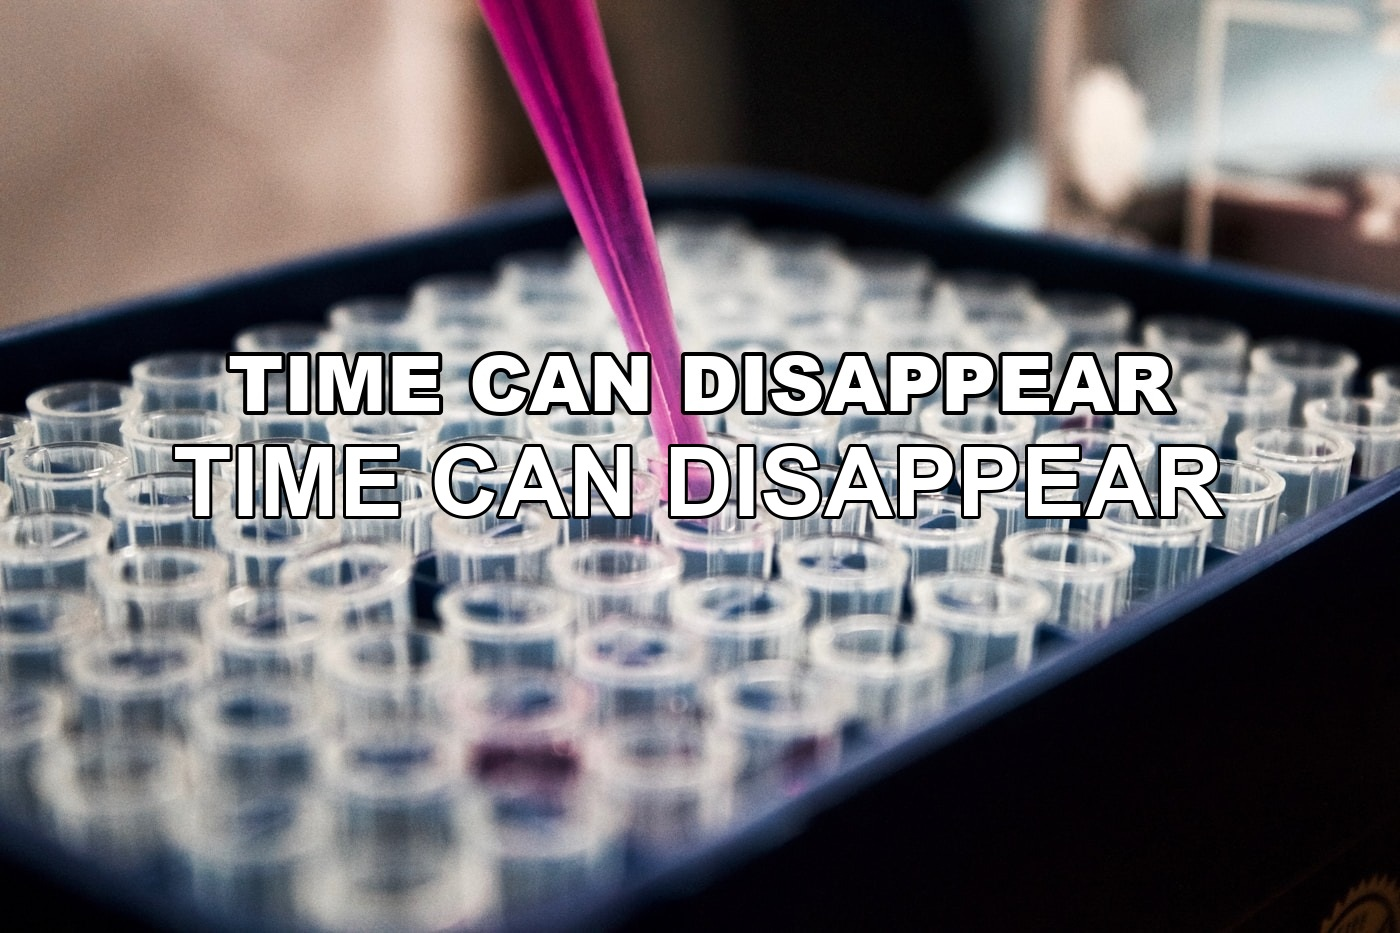
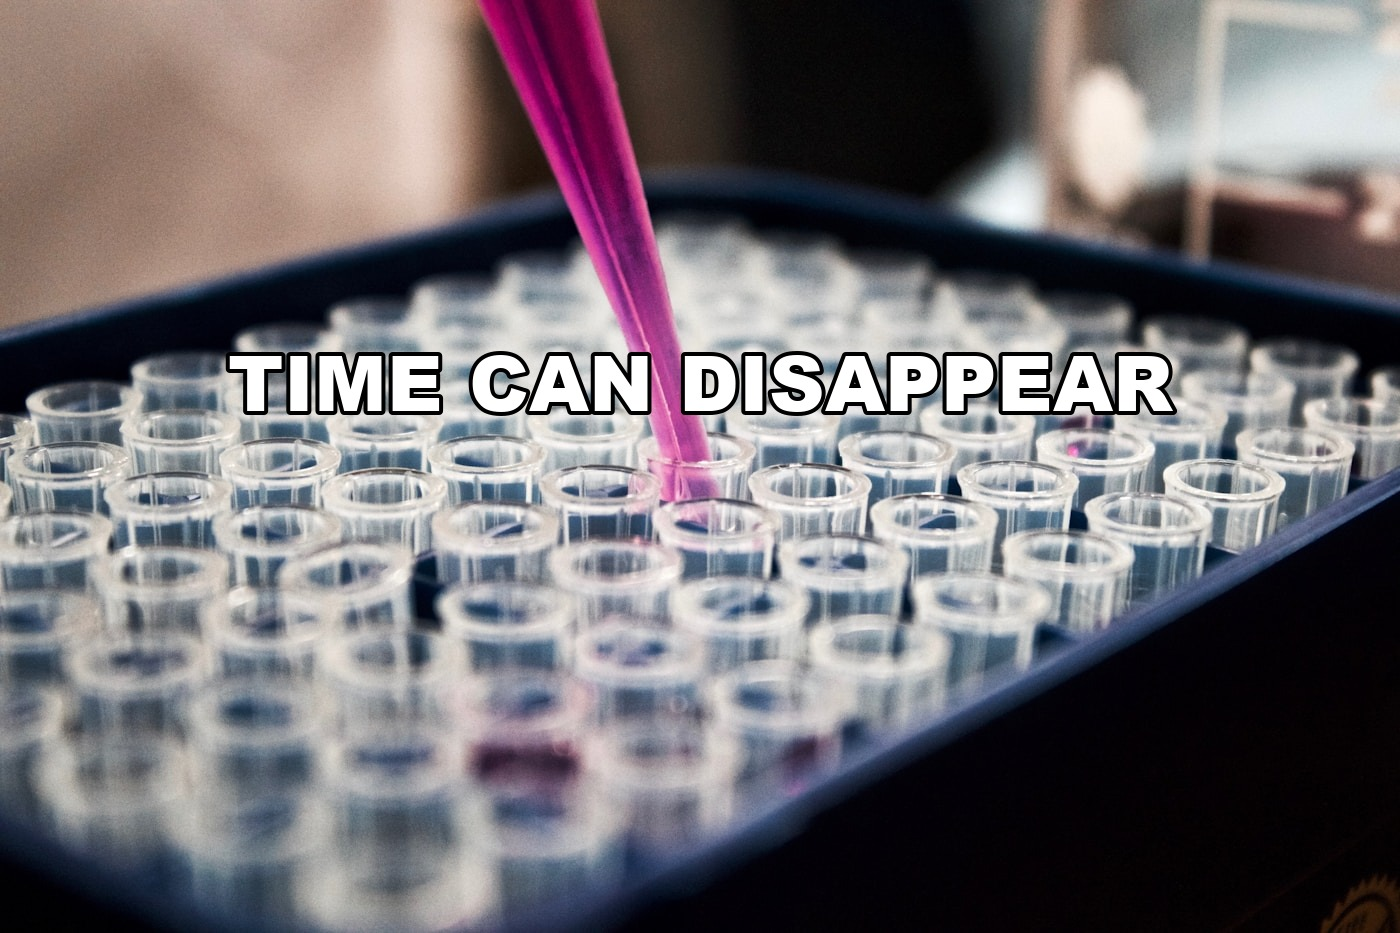
content(medium): time-disappears review fixes - remove TLDR blockquote, pull-quote limit of description, fix duplicated hero overlay, reviewer tags

Changed region(s): [[0.1229, 0.4662, 0.8907, 0.5595]]

diff --git a/nextjs/public/medium/youtube-time-disappears-experiment-bryyy4gjx9w/index.html b/nextjs/public/medium/youtube-time-disappears-experiment-bryyy4gjx9w/index.html
@@ -5,7 +5,7 @@
   <meta name="viewport" content="width=device-width, initial-scale=1">
   <meta name="robots" content="index,follow">
   <meta name="article:status" content="preview">
[2 lines of base64/hex data omitted]
   <link rel="canonical" href="https://www.maxpetrusenko.com/medium/youtube-time-disappears-experiment-bryyy4gjx9w/">
   <title>A New Experiment Where Time Disappears</title>
   <style>
@@ -82,53 +82,53 @@
 <h1>A New Experiment Where Time Disappears</h1>
 <p><em>Inside a tiny cold-atom universe, the past and future touch when the observer can no longer see the whole system.</em></p>
 <figure><img src="/medium/youtube-time-disappears-experiment-bryyy4gjx9w/assets/hero-overlay.jpg" alt="Optical-table apparatus used in the cold-atom time experiment; source video frame with composited headline."></figure>
-<blockquote><p>Time inside a physical system can be reconstructed from changes available to an observer, rather than assumed as a universal background. In a 2026 cold-atom experiment, a Bose-Einstein condensate was divided into observed and unobserved sectors. An entropy-based internal clock ordered the visible cloud’s expansion and collapse, then stopped when the visible sector became empty.</p></blockquote>
 <p>The source describes the cycle in plain physical terms: the cloud is born, expands to a limit, contracts, disappears, and returns. The outside clock keeps running through the empty interval. Inside the observed sector, the entropy record loses the events that would have ordered that pause, so the internal clock has no step to count.</p>
 <p>A cloud of atoms appears. It grows. It shrinks. It vanishes. Then, after a pause measured by an outside laboratory clock, another cloud appears.</p>
 <p>From the laboratory, this is an ordinary sequence. There is a beginning, a middle, and an end. Inside the little world, the middle can disappear.</p>
-<p>That is the point of a <a href="https://doi.org/10.1103/1h9j-df4k" target="_blank" rel="noopener noreferrer">new experiment led by Giovanni Barontini</a> at the University of Birmingham and published in <em>Physical Review Research</em>. The work does not recreate the Big Bang, and it does not show that human time is an illusion. It does something more precise: it builds a controlled system in which an internal observer can have a usable arrow of time while an external observer sees information flowing through a boundary.</p>
+<p>That is the point of a <a href="https://doi.org/10.1103/1h9j-df4k" target="_blank" rel="noopener noreferrer">new experiment led by Giovanni Barontini</a> at the University of Birmingham and published in <em>Physical Review Research</em>. The work stays narrower than either headline claim: it builds a controlled system in which an internal observer can have a usable arrow of time while an external observer sees information flowing through a boundary.</p>
 <p>The distinction sounds philosophical until you look at the apparatus.</p>
 <h2>A universe in a trap</h2>
 <p>The experiment begins with a Bose-Einstein condensate, a collection of atoms cooled so far that they behave as one quantum object. The <a href="https://www.livescience.com/physics-mathematics/time-was-speeding-up-slowing-down-or-even-stopping-physicist-demonstrates-a-key-theory-of-time-by-building-a-mini-universe-in-his-lab" target="_blank" rel="noopener noreferrer">source description for the experiment</a> reports roughly 24,000 rubidium atoms. A pair of laser beams holds the cloud in an optical trap.</p>
-<p>A thin optical barrier crosses the trap. It is only about eight micrometres wide, narrow enough to divide the cloud into two regions while still allowing atoms to pass through. The researchers monitor one region and deliberately leave the other outside the observer’s description.</p>
+<p>A thin optical barrier crosses the trap. It is only about eight micrometres wide, narrow enough to divide the cloud into two regions while still allowing atoms to pass through. The researchers monitor one region and deliberately leave the other outside the observer&#39;s description.</p>
 <p>That choice creates the essential asymmetry. The laboratory knows about both sides. The internal observer gets the bright side only.</p>
 <p>In the outside laboratory, a camera records the cloud every two milliseconds. The visible cycle lasts about 120 milliseconds: a blink-sized lifetime for a universe that expands and collapses. The numbers are small, but the logic scales. A system does not need galaxies to raise the question of what its inhabitants can call time.</p>
-<p>The first atoms crossing into the observed region mark the experiment’s artificial birth. The cloud expands as more atoms become visible. Later, the cloud contracts. The last visible atoms cross back into the hidden region. From outside, the cycle has a duration. From inside, the visible world has become empty.</p>
+<p>The first atoms crossing into the observed region mark the experiment&#39;s artificial birth. The cloud expands as more atoms become visible. Later, the cloud contracts. The last visible atoms cross back into the hidden region. From outside, the cycle has a duration. From inside, the visible world has become empty.</p>
 <figure><img src="/medium/youtube-time-disappears-experiment-bryyy4gjx9w/images/body-frame-1.jpg" alt="Experimental heatmap showing the atom cloud crossing the optical barrier over time; source video frame."></figure>
 <h2>Why a clock needs more than motion</h2>
-<p>At first, the cloud’s position seems like a clock. The visible region starts empty, fills, and empties again. But position alone cannot tell the whole story. The same position can occur on the way up or on the way down. A half-full cloud might be a young universe still expanding or an old universe already collapsing.</p>
+<p>At first, the cloud&#39;s position seems like a clock. The visible region starts empty, fills, and empties again. But position alone cannot tell the whole story. The same position can occur on the way up or on the way down. A half-full cloud might be a young universe still expanding or an old universe already collapsing.</p>
 <p>A clock needs a record of what has happened.</p>
-<p>The researchers use a <a href="https://doi.org/10.1103/1h9j-df4k" target="_blank" rel="noopener noreferrer">coarse-grained entropy associated with information available in the observed region</a>. As atoms enter, the observer has access to more of the system. As they leave, that accessible record changes. Combined with the cloud’s physical coordinate, this entropic quantity can order events across repeated cycles.</p>
-<p>This is a careful use of “entropy.” It is not a claim that the cloud becomes messy in a vague everyday sense. It is a measurement built from what the observer can distinguish about the system. In the paper, that internal time is used to parameterize the measured evolution and reproduce the observed dynamics.</p>
+<p>The researchers use a <a href="https://doi.org/10.1103/1h9j-df4k" target="_blank" rel="noopener noreferrer">coarse-grained entropy associated with information available in the observed region</a>. As atoms enter, the observer has access to more of the system. As they leave, that accessible record changes. Combined with the cloud&#39;s physical coordinate, this entropic quantity can order events across repeated cycles.</p>
+<p>This is a careful use of &quot;entropy.&quot; The term refers to what the observer can distinguish about the system, measured as a quantity; in the paper, that internal time parameterizes the measured evolution and reproduces the observed dynamics. The everyday image of things getting messier does not apply here.</p>
 <p>The external clock and the internal clock therefore answer different questions. The laboratory clock tracks the entire apparatus. The internal clock tracks the history available to the partial observer. Both are useful. Neither is the one true clock for every description.</p>
 <h2>The missing interval</h2>
 <p>The strangest moment occurs when the visible sector empties. The laboratory clock keeps running. Atoms remain in the hidden sector, and the full quantum system continues to evolve. But the internal observer has no visible change left to order. Its entropy clock stops.</p>
 <p>When the next visible cycle begins, the internal description resumes from the new appearance. On a plot against laboratory time, the cycles are separated. On a plot against internal entropic time, the end of one visible world and the beginning of the next can look like a hard cut.</p>
-<figure><img src="/medium/youtube-time-disappears-experiment-bryyy4gjx9w/images/body-frame-2.jpg" alt="Source-video diagram comparing barrier height and the atom cloud’s internal time."></figure>
-<p>The graph is not showing time being destroyed as a substance. It is showing a limit of description. The observer’s clock is made from accessible change. When accessible change disappears, the clock has no variable left to count.</p>
+<figure><img src="/medium/youtube-time-disappears-experiment-bryyy4gjx9w/images/body-frame-2.jpg" alt="Source-video diagram comparing barrier height and the atom cloud&#39;s internal time."></figure>
+<blockquote><p>The graph is not showing time being destroyed as a substance. It is showing a limit of description.</p></blockquote>
+<p>The observer&#39;s clock is made from accessible change. When accessible change disappears, the clock has no variable left to count.</p>
 <p>That is why the result matters beyond a clever atom trap. It gives a physical demonstration of a relational idea often discussed in quantum foundations: time can be a relation between a subsystem and the rest of the system, rather than a universal stage on which everything happens.</p>
 <h2>Ignorance can create an arrow</h2>
 <p>The experiment also turns a familiar intuition upside down. We usually think that more knowledge gives a more complete picture of time. Here, a complete external description removes the mystery. The laboratory sees the hidden sector and knows that the cycles continue. The internal observer sees only atoms arriving and leaving. Its incomplete description is what gives the sequence a usable past and future.</p>
-<p>This does not mean ignorance magically creates physical events. The atoms still move according to quantum dynamics. It means the arrow of time, as an observable ordering for a subsystem, depends on which correlations and degrees of freedom are available to that subsystem.</p>
-<p>The hidden region acts like a physical memory outside the observer’s reach. It carries information about where the visible atoms came from and where they go. The observer cannot use that information directly, so the visible record acquires direction. The past is reconstructed from traces rather than inspected as a complete object.</p>
+<p>The atoms still move according to quantum dynamics. The arrow of time, as an observable ordering for a subsystem, depends on which correlations and degrees of freedom are available to that subsystem.</p>
+<p>The hidden region acts like a physical memory outside the observer&#39;s reach. It carries information about where the visible atoms came from and where they go. The observer cannot use that information directly, so the visible record acquires direction. The past is reconstructed from traces rather than inspected as a complete object.</p>
 <p>That limitation has an everyday cousin. A computer file has timestamps for creation, modification, and access. An attacker can alter those timestamps, a technique called timestomping, to make malicious code look older than it is. Investigators then rely on other traces: logs, filesystem metadata, process history, network records. A timestamp is only as trustworthy as the system that produced and preserved it.</p>
-<p>The atom experiment is not a cybersecurity experiment. The analogy is narrower and more useful: history is always a reconstruction from records that some observer can access. Remove the records, and the visible arrow becomes weaker or disappears.</p>
+<p>The atom experiment and cybersecurity share a narrower thread: history is always a reconstruction from records that some observer can access. Remove the records, and the visible arrow becomes weaker or disappears.</p>
 <h2>What the experiment does not show</h2>
-<p>The paper’s result is easy to inflate. It does not establish that our universe is a repeating condensate. It does not demonstrate travel into the past. It does not settle the problem of time in quantum gravity. The authors built a clean test bed for relational constructions of time; they did not turn a 120-millisecond laboratory cycle into cosmology.</p>
-<p>The system is also deliberately coarse-grained. The internal observer ignores the hidden sector and the quantum correlations spanning the barrier. That omission is the mechanism being tested, not an accidental flaw. But it means the conclusion must stay at the level of controlled model and measured dynamics.</p>
+<p>The paper&#39;s result is easy to inflate. It does not establish that our universe is a repeating condensate. It does not demonstrate travel into the past. It does not settle the problem of time in quantum gravity. The authors built a clean test bed for relational constructions of time; they did not turn a 120-millisecond laboratory cycle into cosmology.</p>
+<p>The system is also deliberately coarse-grained. The internal observer ignores the hidden sector and the quantum correlations spanning the barrier. That omission is the mechanism under test, an intentional design choice. But it means the conclusion must stay at the level of controlled model and measured dynamics.</p>
 <p>The useful question is therefore practical: what does a subsystem know, and which changes can it use as a clock?</p>
 <p>For any physical or computational system, ask three things:</p>
 <ol>
-<li><strong>What is inside the observer’s boundary?</strong> Name the sensors, logs, variables, and states it can actually read.</li>
+<li><strong>What is inside the observer&#39;s boundary?</strong> Name the sensors, logs, variables, and states it can actually read.</li>
 <li><strong>Which change orders events?</strong> A position, count, energy, entropy, or retained record can serve as a clock only if it distinguishes earlier from later.</li>
 <li><strong>What happens when the record goes empty or stale?</strong> The system may continue outside, while the internal timeline freezes, jumps, or becomes ambiguous.</li>
 </ol>
 <p>That checklist applies to experiments, distributed software, and forensic timelines without pretending they are the same kind of object.</p>
 <h2>When the present becomes a cut</h2>
-<p>The experiment’s little universe begins with atoms crossing a line and ends when the visible side is empty. The laboratory sees a smooth continuation through the hidden region. The internal observer gets something closer to film editing: one sequence ends, and another begins after a cut.</p>
+<p>The experiment&#39;s little universe begins with atoms crossing a line and ends when the visible side is empty. The laboratory sees a smooth continuation through the hidden region. The internal observer gets something closer to film editing: one sequence ends, and another begins after a cut.</p>
 <p>The cut is the shape reality takes when a world cannot access all of its own state.</p>
 <p>Time, in this experiment, is less like a river flowing everywhere and more like a record assembled from the changes an observer can retain. When the record stops, the internal present has nowhere to point.</p>
-<p>That is a modest conclusion compared with “time disappears.” It is also more unsettling: a clock may be telling us as much about the limits of our view as about the world itself. For a useful next read, try <a href="https://medium.com/@max.petrusenko/the-universe-is-expanding-too-fast-and-nobody-can-explain-why-a23f2177db12" target="_blank" rel="noopener noreferrer">The Universe Is Expanding Too Fast, and Nobody Can Explain Why</a>, another piece about how the universe keeps surprising physics.</p>
+<p>That is a modest conclusion compared with &quot;time disappears.&quot; It is also more unsettling: a clock may be telling us as much about the limits of our view as about the world itself. For a useful next read, try <a href="https://medium.com/@max.petrusenko/the-universe-is-expanding-too-fast-and-nobody-can-explain-why-a23f2177db12" target="_blank" rel="noopener noreferrer">The Universe Is Expanding Too Fast, and Nobody Can Explain Why</a>, another piece about how the universe keeps surprising physics.</p>
 <h2>Sources</h2>
 <p><a href="https://doi.org/10.1103/1h9j-df4k" target="_blank" rel="noopener noreferrer">new experiment led by Giovanni Barontini</a> | <a href="https://www.livescience.com/physics-mathematics/time-was-speeding-up-slowing-down-or-even-stopping-physicist-demonstrates-a-key-theory-of-time-by-building-a-mini-universe-in-his-lab" target="_blank" rel="noopener noreferrer">source description for the experiment</a></p>
 <h2>About the author</h2>
